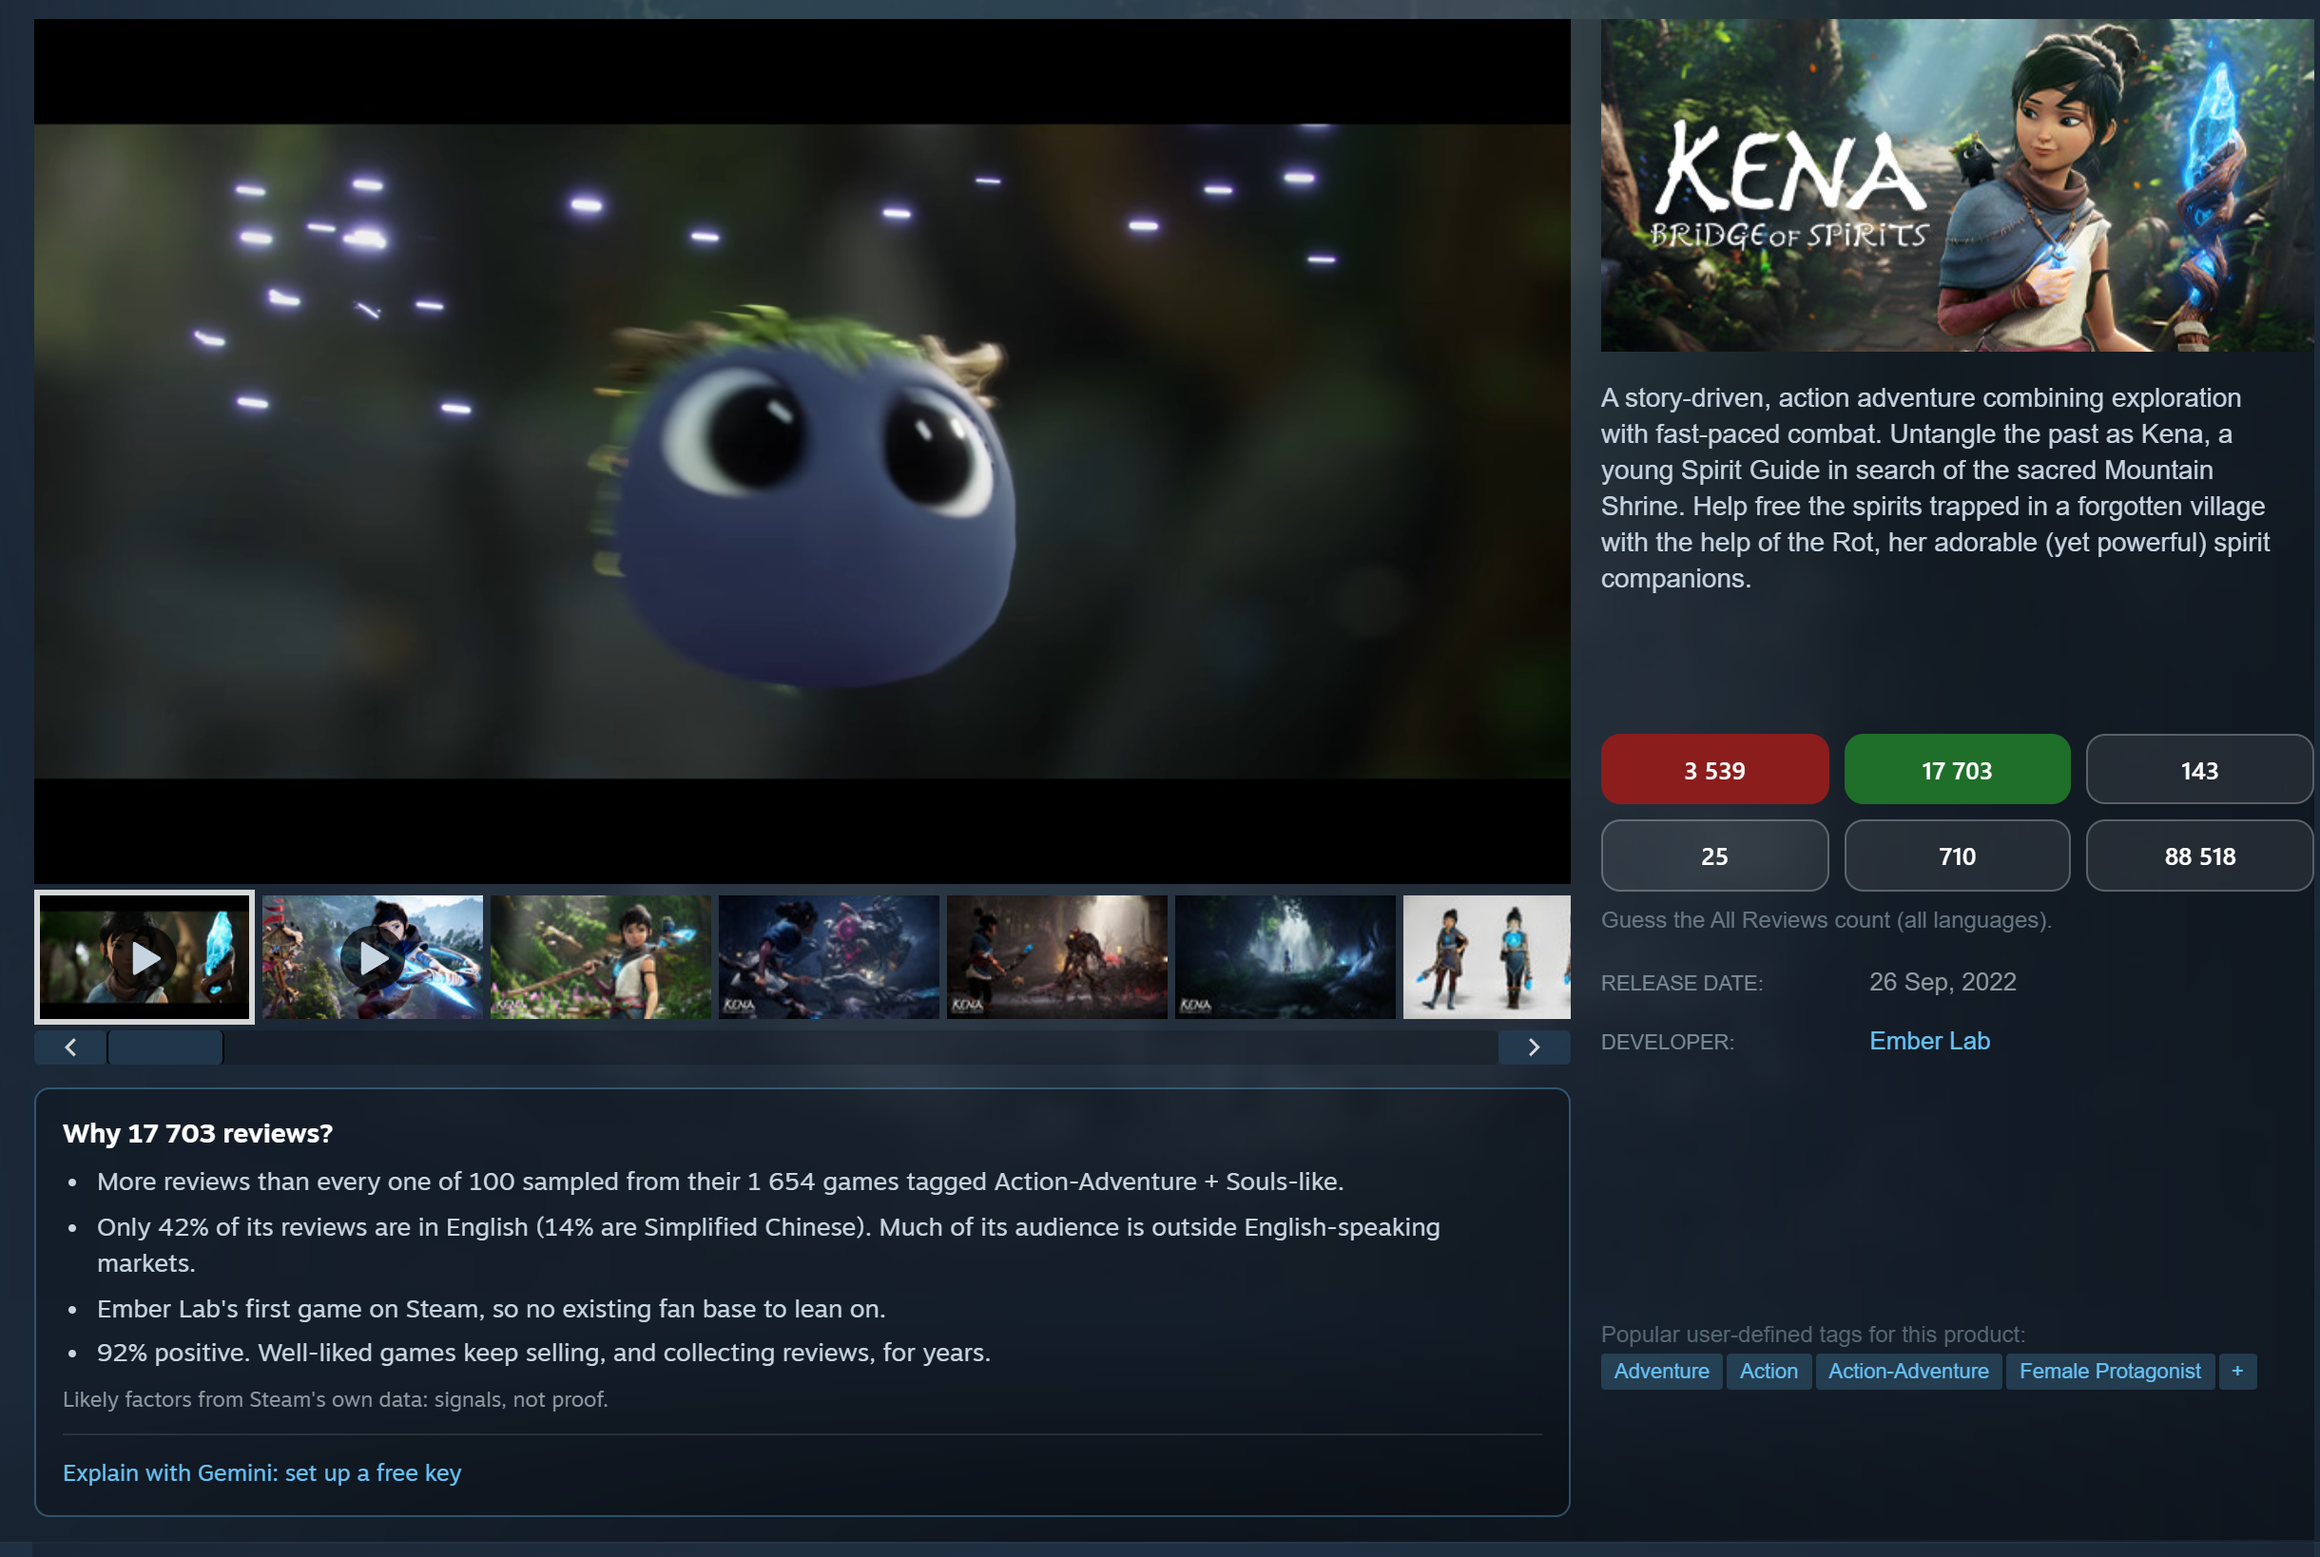
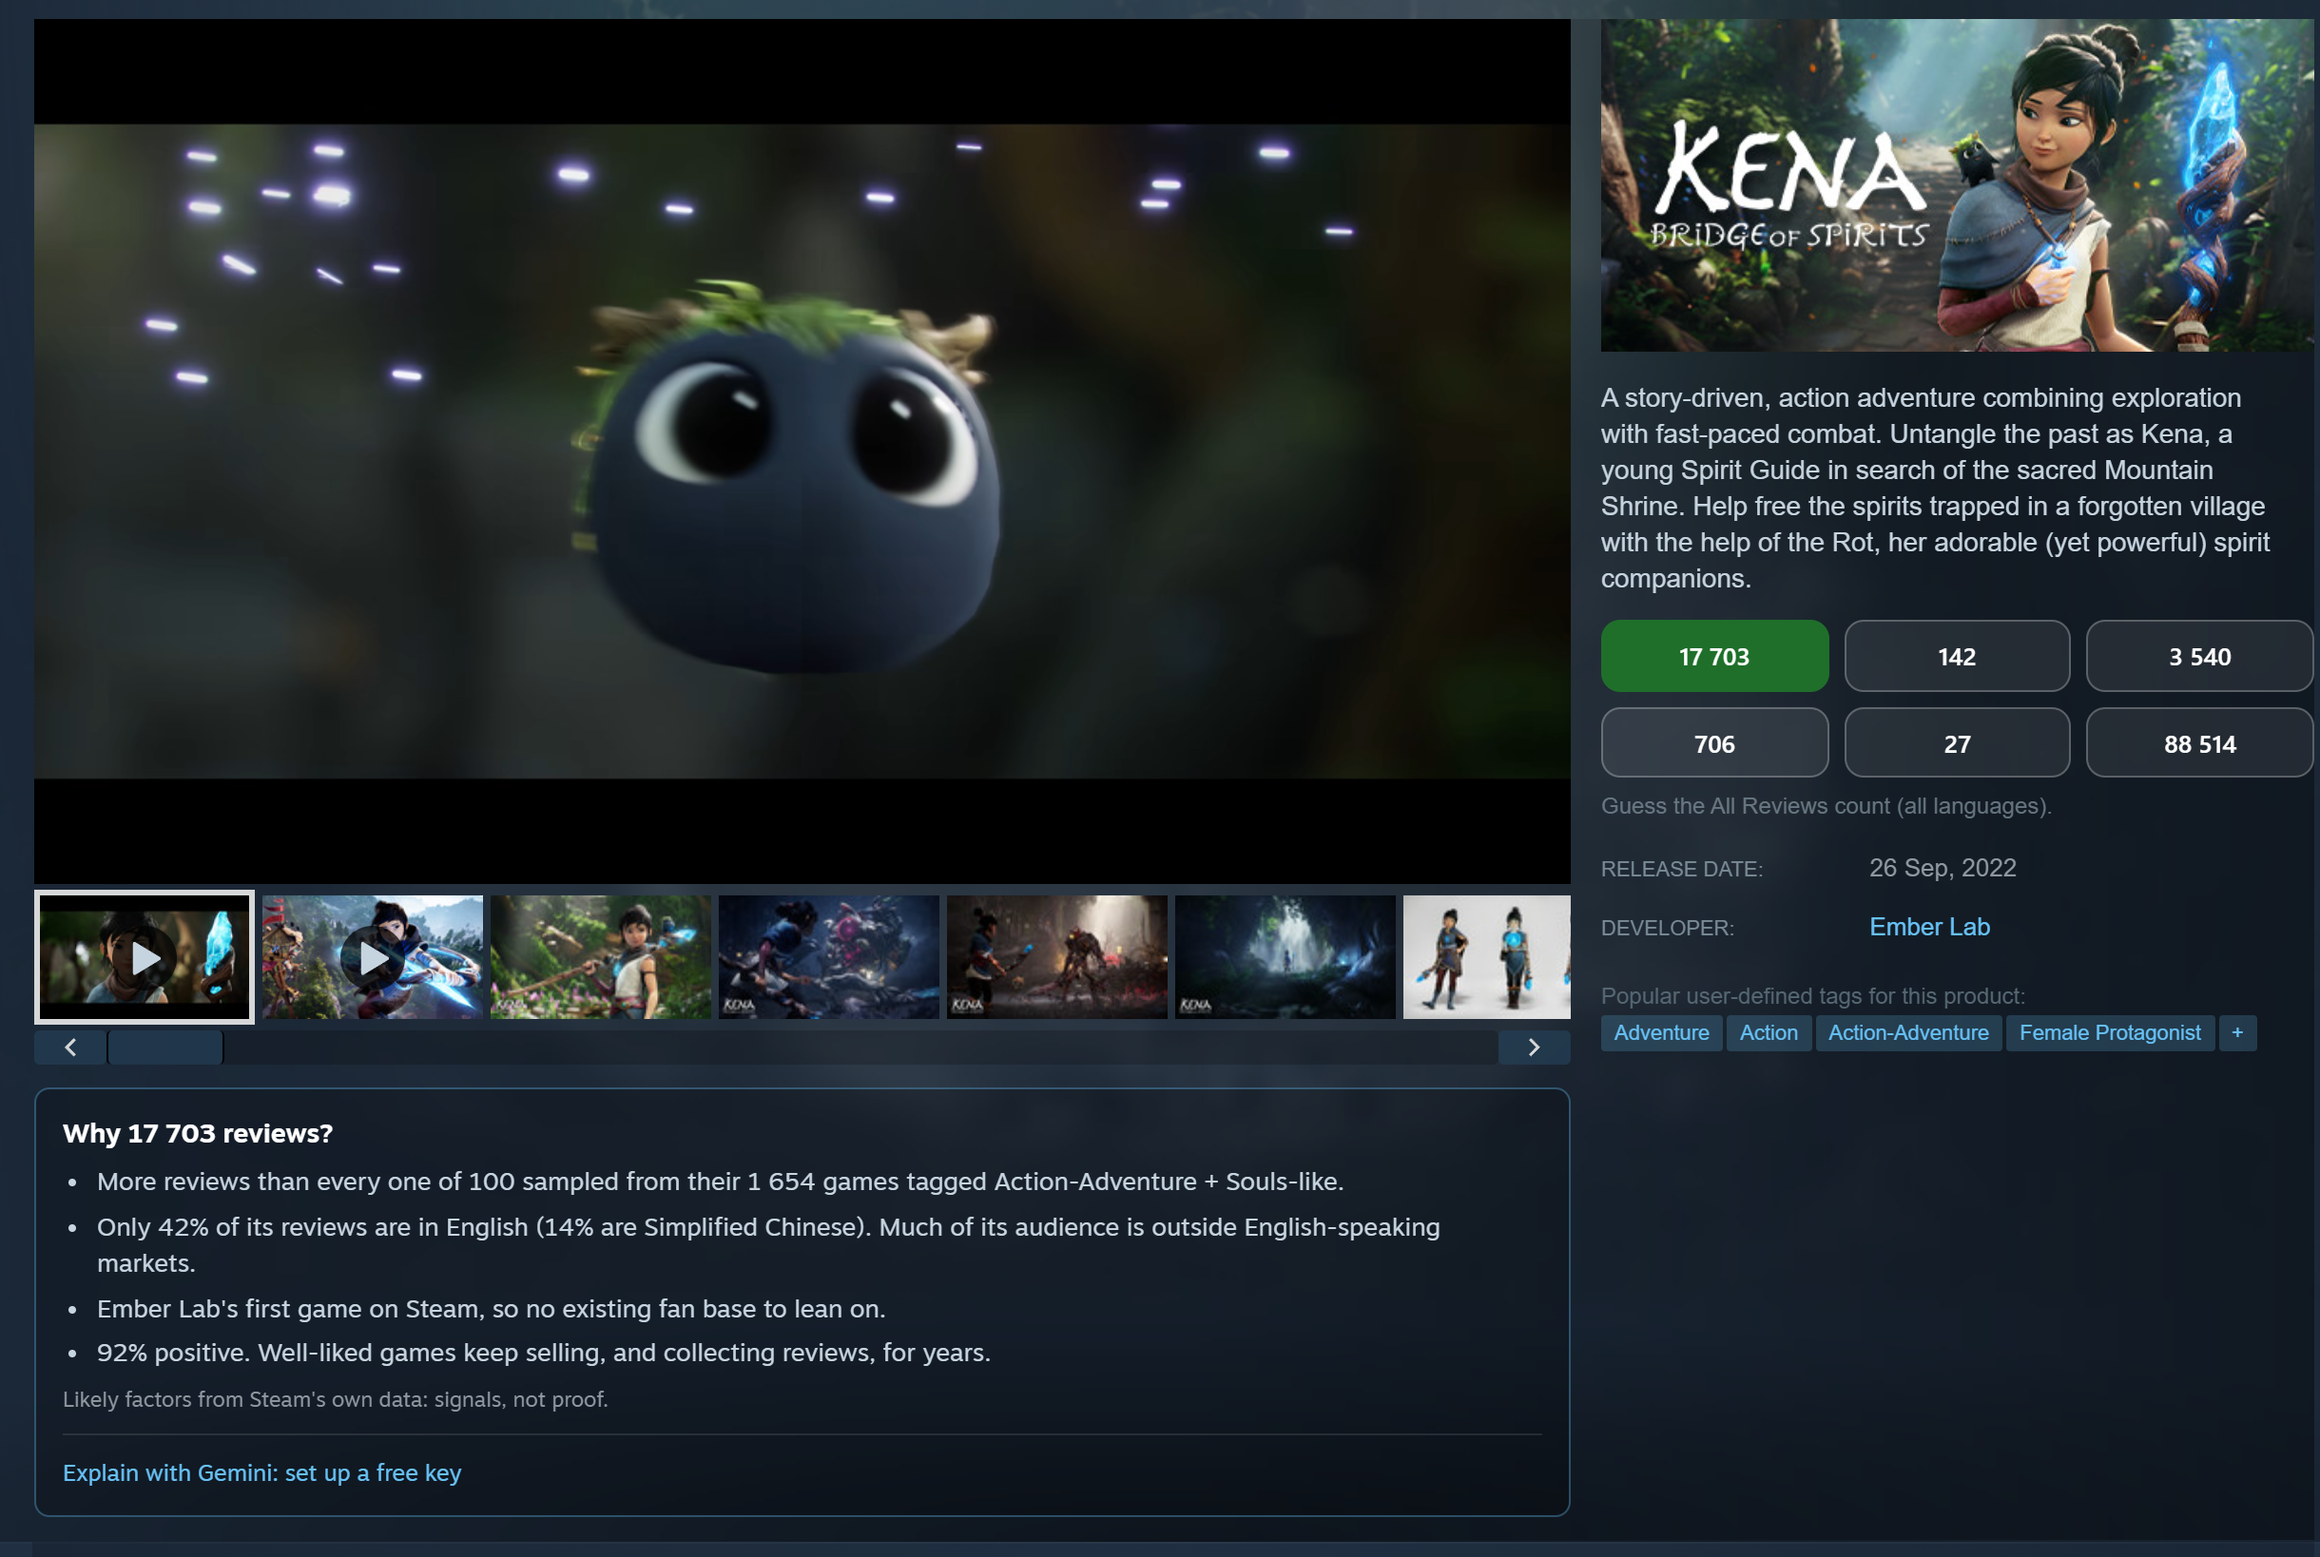
Fix right-column stretch, BRL-as-USD prices, comments-mode header
- Insight under the screenshots no longer stretches the right column:
  #game_highlights is a flex row, so the taller media column dragged the
  glance box (and its tags) down. The right column now keeps its own
  height, at least the media block's, kept in sync on resize.
- Prices: appdetails was fetched with the viewer's cookies, so Steam
  priced in the account currency (R$ 28,99 sent as $28.99). Fetched
  cookie-less now so cc=us applies, and priceUSD is dropped unless the
  currency really is USD.
- Gemini prompt: judge quality from the reviews and score, not the review
  count; prices are US store USD; only claim what the facts or reviews
  support (it called an obscure game an "asset-flip-adjacent project").
- Guessing + review comments: keep Steam's spoiler-free header (title row
  with its links, "Filters" chip row) so the section looks like Steam's;
  "See language breakdown" (per-language counts), the summary, graph,
  filter dropdowns (their options show counts) and "Showing N" stay
  hidden. A divider and spacing replace what the hidden parts provided.

diff --git a/src/insights.js b/src/insights.js
@@ -36,8 +36,8 @@
   // Steam fetch helpers
   // ---------------------------------------------------------------------------
 
-  async function getJson(url) {
-    const r = await fetch(url, { credentials: "same-origin" });
+  async function getJson(url, credentials = "same-origin") {
+    const r = await fetch(url, { credentials });
     if (!r.ok) throw new Error(`${r.status} for ${url}`);
     return r.json();
   }
@@ -141,7 +141,9 @@
     const tags = pageTags();
 
     const [details, all, english, chinese] = await Promise.all([
-      settle(getJson(`${STORE}/api/appdetails?appids=${appid}&cc=us&l=english`).then((d) => d?.[appid]?.data || null)),
+      // No cookies: with them Steam prices in the viewer's account currency
+      // (e.g. BRL) and ignores cc=us
+      settle(getJson(`${STORE}/api/appdetails?appids=${appid}&cc=us&l=english`, "omit").then((d) => d?.[appid]?.data || null)),
       settle(reviewTotals(appid, "all")),
       settle(reviewTotals(appid, "english")),
       settle(reviewTotals(appid, "schinese")),
@@ -183,7 +185,8 @@
       comingSoon: !!released.coming_soon,
       ageYears: ageYears == null ? null : Math.round(ageYears * 10) / 10,
       isFree: !!details?.is_free,
-      priceUSD: details?.price_overview ? details.price_overview.initial / 100 : null,
+      // US store price; dropped if Steam answered in another currency anyway
+      priceUSD: details?.price_overview?.currency === "USD" ? details.price_overview.initial / 100 : null,
       discountPercent: details?.price_overview?.discount_percent || 0,
       earlyAccess: (details?.genres || []).some((g) => g.id === "70" || g.description === "Early Access"),
       multiplayer: (details?.categories || []).some((c) => MULTIPLAYER_CATEGORY_IDS.has(c.id)),
@@ -380,6 +383,29 @@
    * @param {HTMLElement} wrap  the .ext-steam-guess widget
    * @param {{appId: string, trueCount: number}} game
    */
+  /**
+   * #game_highlights is a flex row, so a taller media column (with the
+   * insight under it) would stretch the right column, and Steam spreads the
+   * right column's content top to bottom: the tags would drop far down.
+   * Keep the right column at its own height, but no shorter than the media
+   * block, so it looks exactly as before the insight appeared.
+   */
+  function pinRightColumn() {
+    const right = document.querySelector("#game_highlights .rightcol");
+    const media = document.querySelector("#game_highlights .leftcol > .highlight_ctn");
+    if (!right || !media) return;
+    right.style.alignSelf = "flex-start";
+    // An explicit height (not min-height): Steam's glance box fills the
+    // column by percentage, which only resolves against a set height
+    const sync = () => {
+      right.style.height = "auto";
+      const natural = right.getBoundingClientRect().height;
+      right.style.height = Math.max(natural, media.getBoundingClientRect().height) + "px";
+    };
+    sync();
+    new ResizeObserver(sync).observe(media);
+  }
+
   async function showGameInsight(wrap, { appId, trueCount }) {
     if (document.querySelector(".ext-insight")) return;
     const box = el("div", "ext-insight");
@@ -389,6 +415,7 @@
     // Under the screenshots, where the media column usually has empty space;
     // the narrow column with the guess buttons is the fallback
     const mediaColumn = document.querySelector("#game_highlights .leftcol");
+    if (mediaColumn) pinRightColumn();
     (mediaColumn || wrap).appendChild(box);
 
     let facts;

diff --git a/src/guesserMode.js b/src/guesserMode.js
@@ -67,17 +67,25 @@
 
   // ---------------------------------------------------------------------------
   // "Guessing + review comments": sort the parts of Steam's review section.
-  //   - the part holding the comments  -> .ext-review-comments (shown)
-  //   - any other part that has text   -> .ext-review-meta (collapsed: score
-  //     summary, histograms, filters, "Showing N reviews")
-  //   - not sorted yet                 -> invisible but laid out (content.css)
+  //   - the comments                         -> .ext-review-comments (shown)
+  //   - the "Customer reviews for ..." title
+  //     and the "Filters" chip row, unless
+  //     they carry a count                   -> .ext-review-keep (shown, so the
+  //                                             section keeps Steam's layout)
+  //   - any other part that has text         -> .ext-review-meta (collapsed: score
+  //     summary, histograms, the filter dropdowns, whose options show counts,
+  //     and "Showing N reviews")
+  //   - not sorted yet                       -> invisible but laid out (content.css)
   // Untagged parts must keep their layout: Steam only loads the comments
   // once their (still empty) container scrolls into view. Nothing is shown
-  // before it's recognised, so a markup change can only hide comments, never
-  // leak counts. Steam's class names are generated, hence the text test.
+  // before it's recognised, so a markup change can only hide parts, never
+  // leak counts. Steam's class names are generated, hence the text tests.
   // ---------------------------------------------------------------------------
 
   const COMMENTS_RX = /Most Helpful Reviews|Recently Posted|Was this review helpful/i;
+  const KEEP_RX = /^\s*(Customer reviews for|Filters)/i; // no \b: Steam renders "FiltersYour Languages"
+  const COUNT_RX = /\(\s*[\d.,]+\s*\)/; // "(19)", "(9 reviews)" is caught by the digits too
+  const SPOILER_LINK_RX = /language breakdown/i; // opens per-language counts
 
   function markReviewComments() {
     const sectionRoot = document.querySelector(
@@ -87,8 +95,15 @@
     for (const part of sectionRoot.children) {
       const text = part.textContent || "";
       const isComments = COMMENTS_RX.test(text);
+      const keep = !isComments && KEEP_RX.test(text) && !COUNT_RX.test(text);
       part.classList.toggle("ext-review-comments", isComments);
-      part.classList.toggle("ext-review-meta", !isComments && !!text.trim());
+      part.classList.toggle("ext-review-keep", keep);
+      part.classList.toggle("ext-review-meta", !isComments && !keep && !!text.trim());
+      if (keep) {
+        part.querySelectorAll("a, button").forEach((link) => {
+          if (SPOILER_LINK_RX.test(link.textContent || "")) link.classList.add("ext-review-spoiler-link");
+        });
+      }
     }
   }
 

diff --git a/content.css b/content.css
@@ -30,12 +30,22 @@ html:not(.ext-guesser-off):not(.ext-guesser-comments) .review_ctn {
   visibility: hidden !important;
 }
 
-/* Guessing + review comments: of the review section's parts, only the one
-   guesserMode.js tagged as the comments is shown. Untagged parts stay
-   invisible but laid out (Steam lazy-loads the comments into one of them);
-   parts tagged as summary/histograms/filters/"Showing N" collapse. */
-html.ext-guesser-comments [data-featuretarget="appreviews"] > div > :not(.ext-review-comments) {
+/* Guessing + review comments: of the review section's parts, only the
+   comments and the count-free title / "Filters" rows (tagged by
+   guesserMode.js) are shown. Untagged parts stay invisible but laid out
+   (Steam lazy-loads the comments into one of them); parts tagged as
+   summary/histograms/filter dropdowns/"Showing N" collapse. */
+html.ext-guesser-comments [data-featuretarget="appreviews"] > div > :not(.ext-review-comments):not(.ext-review-keep) {
   visibility: hidden !important;
+}
+html.ext-guesser-comments .ext-review-spoiler-link { display: none !important; }
+/* Steam separates the header links with a left border on all but the first */
+html.ext-guesser-comments .ext-review-spoiler-link:first-child + * { border-left: 0 !important; }
+/* "Showing N reviews" carried the gap and divider above the comments */
+html.ext-guesser-comments [data-featuretarget="appreviews"] > div > .ext-review-comments {
+  margin-top: 28px;
+  padding-top: 28px;
+  border-top: 1px solid rgba(255, 255, 255, 0.15);
 }
 html.ext-guesser-comments [data-featuretarget="appreviews"] > div > .ext-review-meta {
   display: none !important;
@@ -378,3 +388,6 @@ html:not(.ext-guesser-off) .ext-mask-reviews > *:not(.ext-steam-guess) {
   border-radius: 6px;
   background: #16202d;
 }
+
+/* Comments mode: the hidden summary/dropdowns used to space the kept rows */
+html.ext-guesser-comments [data-featuretarget="appreviews"] > div > .ext-review-keep ~ .ext-review-keep { margin-top: 24px; }

diff --git a/src/background.js b/src/background.js
@@ -10,8 +10,9 @@ const SYSTEM_PROMPT =
   "A player just guessed this Steam game's review count. In 3-4 sentences of plain " +
   "text (no Markdown), explain: what drove its reach (studio, price, timing, genre, " +
   "audience), what players praise and complain about (quote or paraphrase " +
-  "sampleReviews), and whether it seems well made. Be specific and opinionated, " +
-  "never generic; never invent numbers.";
+  "sampleReviews), and whether it seems well made. Judge quality only from the reviews " +
+  "and score, not the review count; say so when evidence is thin. Prices are US store " +
+  "USD. Only claim what the facts or reviews support. Be specific, never generic.";
 
 const userPrompt = (facts) =>
   `Facts (JSON):\n${JSON.stringify(facts)}\n\nWhy ${facts.reviews} reviews, and what do players think?`;
